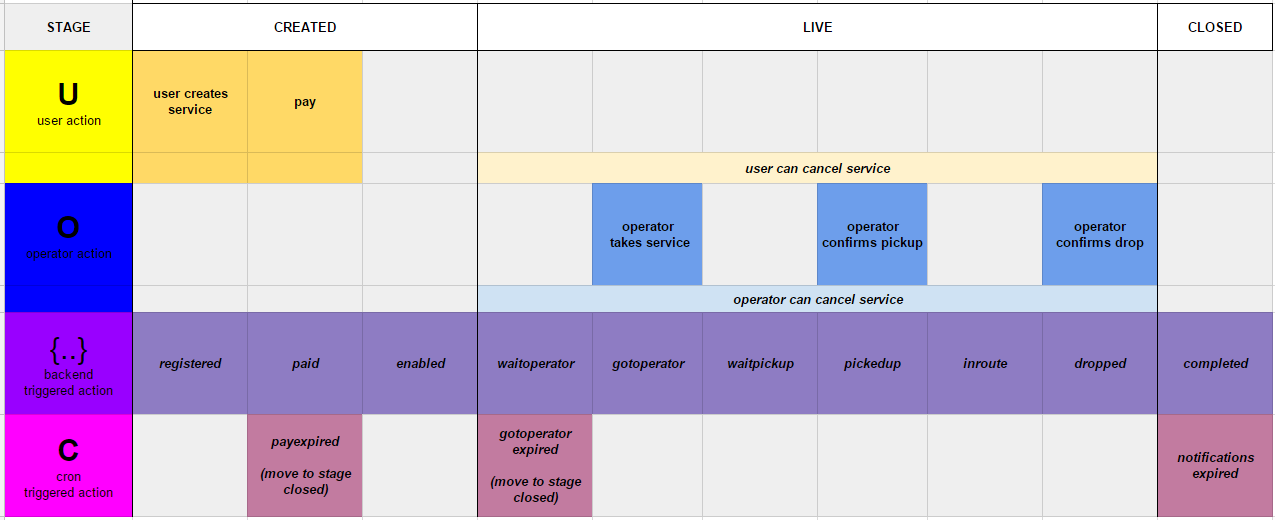
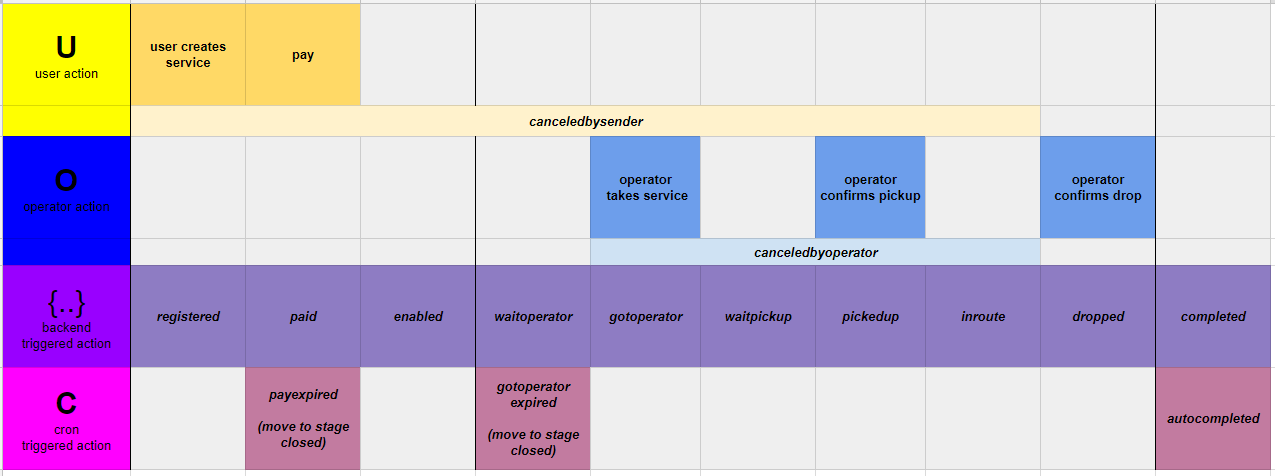
docs

diff --git a/_devfiles/readme-app-specs.md b/_devfiles/readme-app-specs.md
@@ -629,7 +629,7 @@ LIVE | &nbsp; | En vivo
  &nbsp; | dropped | el servicio ha sido entregado en destino.
 CLOSED | &nbsp; | Cerrado
  &nbsp; | payexpired | el servicio ha sido completado satisfactoriamente.
- &nbsp; | complete | el servicio ha sido completado satisfactoriamente.
+ &nbsp; | completed | el servicio ha sido completado satisfactoriamente.
  &nbsp; | canceledbysender | el servicio ha sido cancelado por el solicitante.
  &nbsp; | canceledbyoperator | el servicio ha sido cancelado por el operador.
  &nbsp; | gotoperatorexpired | el servicio ha expirado antes de ser tomado por un operador.
@@ -653,11 +653,11 @@ live_pickedup       | LIVE      | pickedup      | pin | En transito
 live_inroute        | LIVE      | inroute       | pin | En transito
 live_dropped        | LIVE      | dropped       | checkmark-circle | Entregado 
 closed_completed    | CLOSED    | completed     | checkmark-circle | Entregado
+closed_autocompleted  | CLOSED    | autocompleted     | checkbox | Entregado
 closed_canceledbysender | CLOSED | canceledbysender | alert | --
 closed_canceledbyoperator | CLOSED | canceledbyoperator | alert | -- 
 closed_payexpired   | CLOSED | closedpayexpired | alert | -- 
 closed_gotoperatorexpired   | CLOSED | gotoperatorexpired | alert | -- 
-clsoed_notificationsexpired | CLOSED | notificationsexpired | help | --
 
 &nbsp;  
 &nbsp; 

diff --git a/_devfiles/readme.changes.md b/_devfiles/readme.changes.md
@@ -27,8 +27,9 @@ npm run ionic:build --prod
             *closed_payexpired*
         cron: cancelar servicio no tomado
             *closed_gotoperatorexpired*
-        cron: cerrar servicio con notificaciones no enviadas
-            *closed_notificationsexpired*
+        cron: cerrar servicio con hora de entrega pasada y notificaciones no enviadas
+            *closed_autocompleted*
+    - set shipment notifications
     - visualización pedidos en mapa
     - notificaciones (email)
     - network detector
@@ -101,11 +102,18 @@ npm run ionic:build --prod
 - test data in google gloud bigquery
 
 
-# TO BE DEFINED
+
+#---------------
+# TO BE DEFINED 
+#---------------
 - fecha de servicio
     - que pasa con feriados?
     - que pasa con fin de semana?
-
+- situaciónes de conflicto a preveer:
+    - operador dice que lo entrega
+    - usuario dice que no lo recibió
+    - solución: ???
+    
 
 # BIG_QUERY
     Set the bigquery.datasetName and bigquery.tableName 
